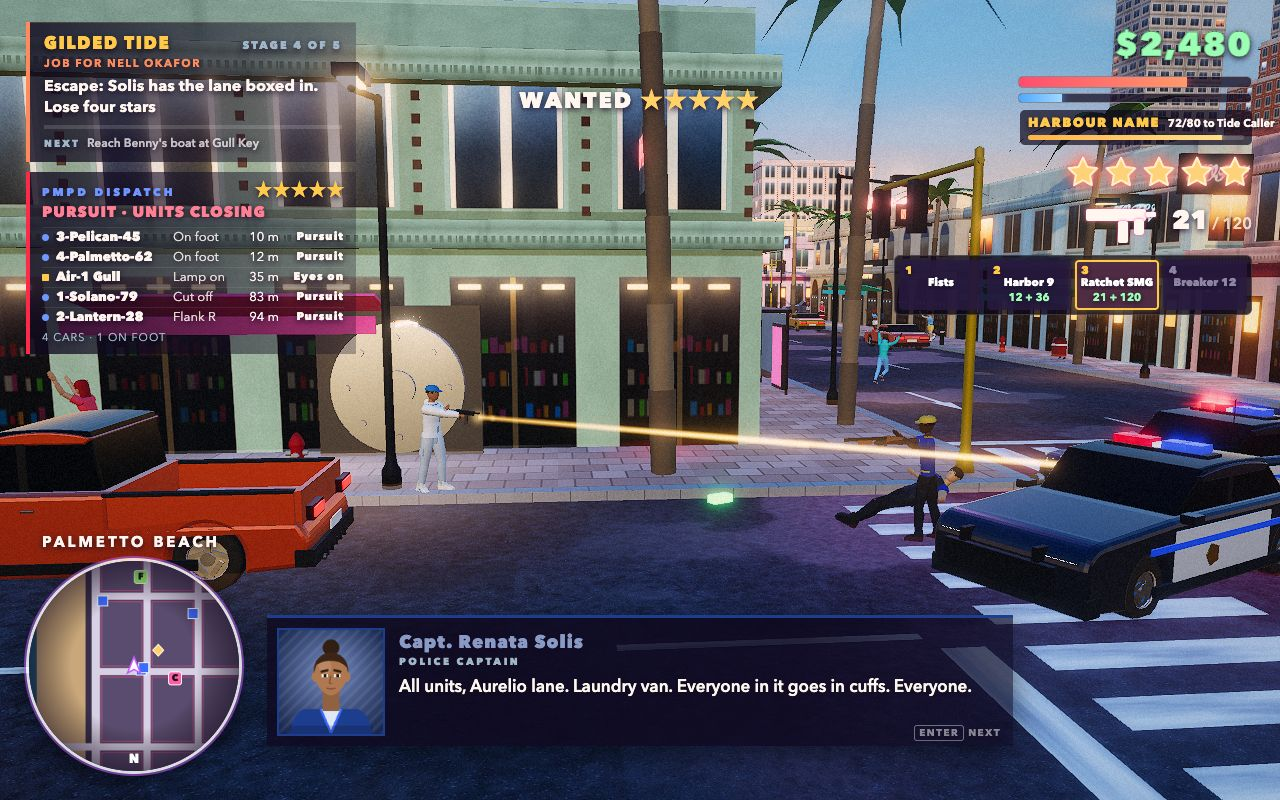
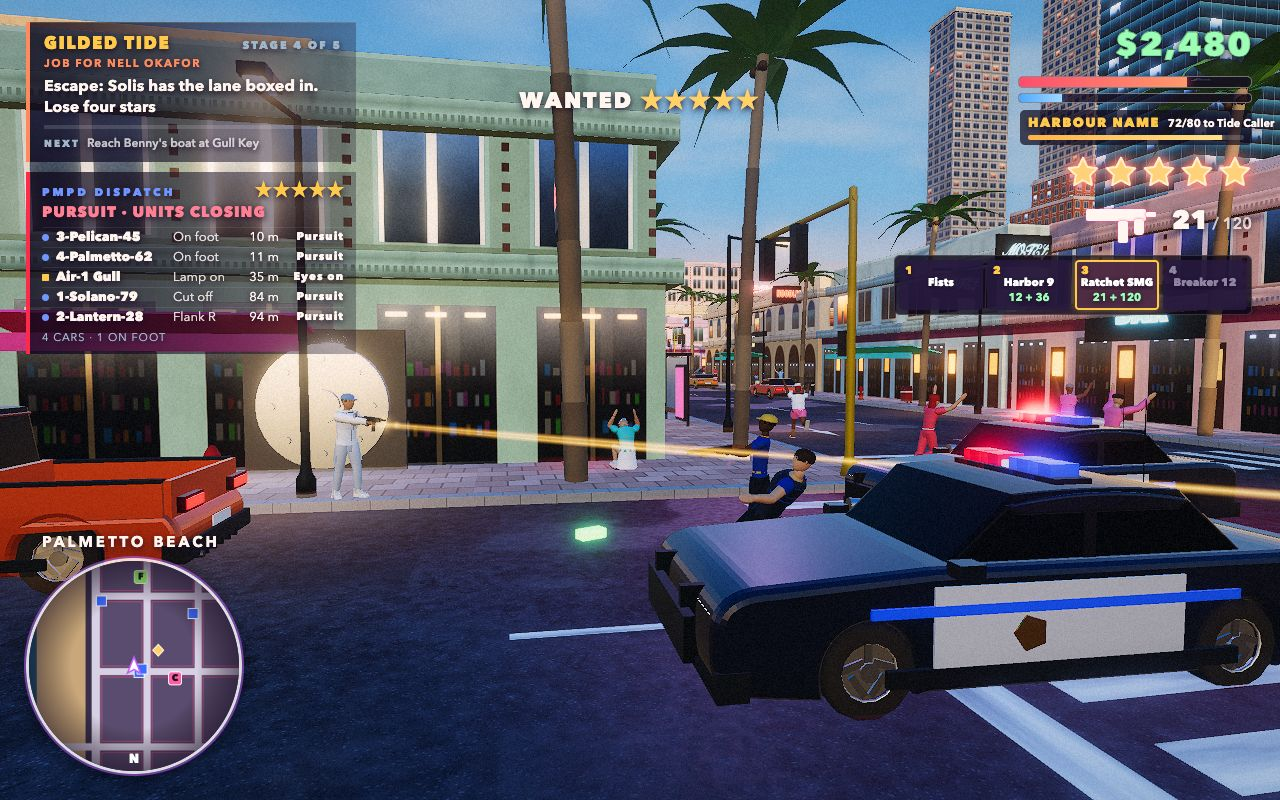
style(shots): heist frame with the cruiser in the foreground, officers and bystanders in view; four more people near the camera on the cover boardwalk; warmer land on the full map; screenshots re-rendered
No look-metric targets changed.

diff --git a/game/src/shotsheist.js b/game/src/shotsheist.js
@@ -51,17 +51,18 @@ export const HEIST_SHOTS = {
       Object.assign(game.player.state.vitals, { health: 84, armour: 46 });
       game.missions.progress.respect = 172;
       const ilo = at(1.5, -1);
-      const threat = at(4.5, -9);
+      const threat = at(6, -6);
       game.player.placeOnFoot(ilo.x, ilo.z, facing(ilo, threat));
       police.setStars(4);
-      for (const [u, t, turn] of [[6, -10, 0.9], [3.5, -13, 0.4]]) {
+      // One cruiser big in the right foreground, the second slewed behind it toward the kerb.
+      for (const [u, t, turn] of [[9.5, -7, 0.9], [5, -11, 0.4]]) {
         const spot = at(u, t);
         const unit = police.units.adopt(game.fleet.reuse('cruiser', '#16203a'), spot.x, spot.z,
           facing(spot, ilo) + turn);
         Object.assign(unit.vehicle, { vx: 0, vz: 0 });
         unit.officersOut = true;
       }
-      for (const [u, t, weapon] of [[4, -6, 'pistol'], [2.5, -8.5, 'shotgun']]) {
+      for (const [u, t, weapon] of [[6.5, -4.5, 'pistol'], [3.5, -7.5, 'shotgun']]) {
         const spot = at(u, t);
         police.officers.deploy(spot.x, spot.z, facing(spot, ilo), weapon).cooldown = 0.2;
       }
@@ -77,14 +78,15 @@ export const HEIST_SHOTS = {
         }
       };
       clearLane();
-      // Bystanders: four running up the pavement away from the cruisers, one cowering by the van, two filming.
-      const extras = [[0.2, -3, 'flee'], [-0.3, 1.5, 'flee'], [0.6, 4, 'flee'], [1.2, 6.5, 'flee'],
-        [3, 5.5, 'cower'], [-0.4, 9, 'film'], [9.5, 3, 'film']];
-      const run = facing(at(0, 0), at(0, 10));
+      // Bystanders on the pavement between Ilo and the cruisers: runners scattering both ways along the shopfronts,
+      // one cowering, three filming from further down.
+      const extras = [[0.3, -4.5, 'flee'], [-0.4, -6, 'cower'], [0.8, -8.5, 'flee'], [-0.3, -11, 'film'],
+        [1, -13, 'film'], [-0.5, 4, 'flee'], [2.5, -15, 'film']];
       extras.forEach(([u, t, kind], index) => {
         const ped = game.pedestrians.peds[index];
         const spot = at(u, t);
         ped.character.position.set(spot.x, game.ground.surfaceAt(spot.x, spot.z).height, spot.z);
+        const run = facing(at(0, 0), at(0, t < -3 ? -10 : 10));
         const angle = kind === 'film' ? facing(spot, ilo) : run;
         ped.react = { state: kind, timer: 9, dirX: Math.sin(angle), dirZ: Math.cos(angle), fromX: threat.x,
           fromZ: threat.z };
@@ -106,10 +108,10 @@ export const HEIST_SHOTS = {
             aim);
           // Across the road, looking back at the wall: door and Ilo left of centre, the cruisers to the right.
           const eye = at(14, -3.5);
-          const look = at(0, -4.5);
-          game.camera.position.set(eye.x, 2.7, eye.z);
-          game.camera.lookAt(look.x, 2.1, look.z);
-          game.camera.fov = 50;
+          const look = at(1, -6);
+          game.camera.position.set(eye.x, 2.4, eye.z);
+          game.camera.lookAt(look.x, 1.7, look.z);
+          game.camera.fov = 58;
           game.camera.updateProjectionMatrix();
         },
       };

diff --git a/game/src/shotslife.js b/game/src/shotslife.js
@@ -17,6 +17,8 @@ const CROWD = [
   [17, -10, 'film'], [12, -22, 'flee'], [19, -19, 'film'], [14, -28, 'film'], [10, -32, 'flee'],
   [21, -26, 'film'], [16.5, -37, 'flee'], [11, -42, 'film'], [-8, -16, 'film'], [-8.5, -24, 'flee'],
   [-7.5, -31, 'film'], [-9, -40, 'flee'], [-8, -50, 'film'],
+  // Close to the camera on the boardwalk, right of the cruiser at the van's right rear quarter.
+  [10.5, 2, 'film'], [13, 4, 'flee'], [15.5, 0, 'film'], [12.5, -2, 'cower'],
 ];
 
 /** Adds the traffic and the crowd around where the van will be at the capture, (vanX, endZ). */

diff --git a/game/src/ui/mapsunny.js b/game/src/ui/mapsunny.js
@@ -2,7 +2,7 @@
 const SIZE = 1024;
 // Sea pixels are pulled toward this turquoise; everything else is lifted toward white, red most, blue least.
 const SEA = [52, 176, 222];
-const LIFT = [0.44, 0.38, 0.27];
+const LIFT = [0.54, 0.45, 0.3];
 
 /** The city canvas (dark minimap colours) repainted for the full-map screen; the original is left untouched. */
 export function sunnyCanvas(base) {
